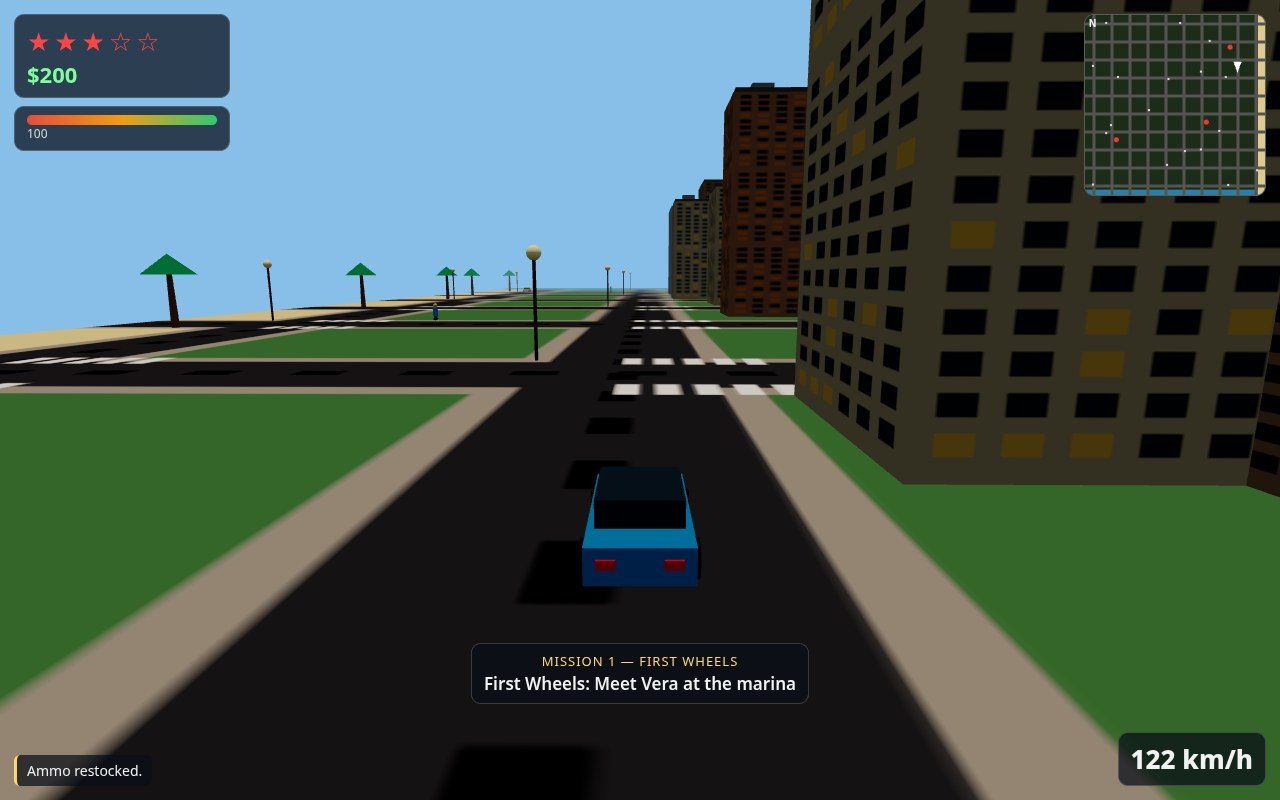
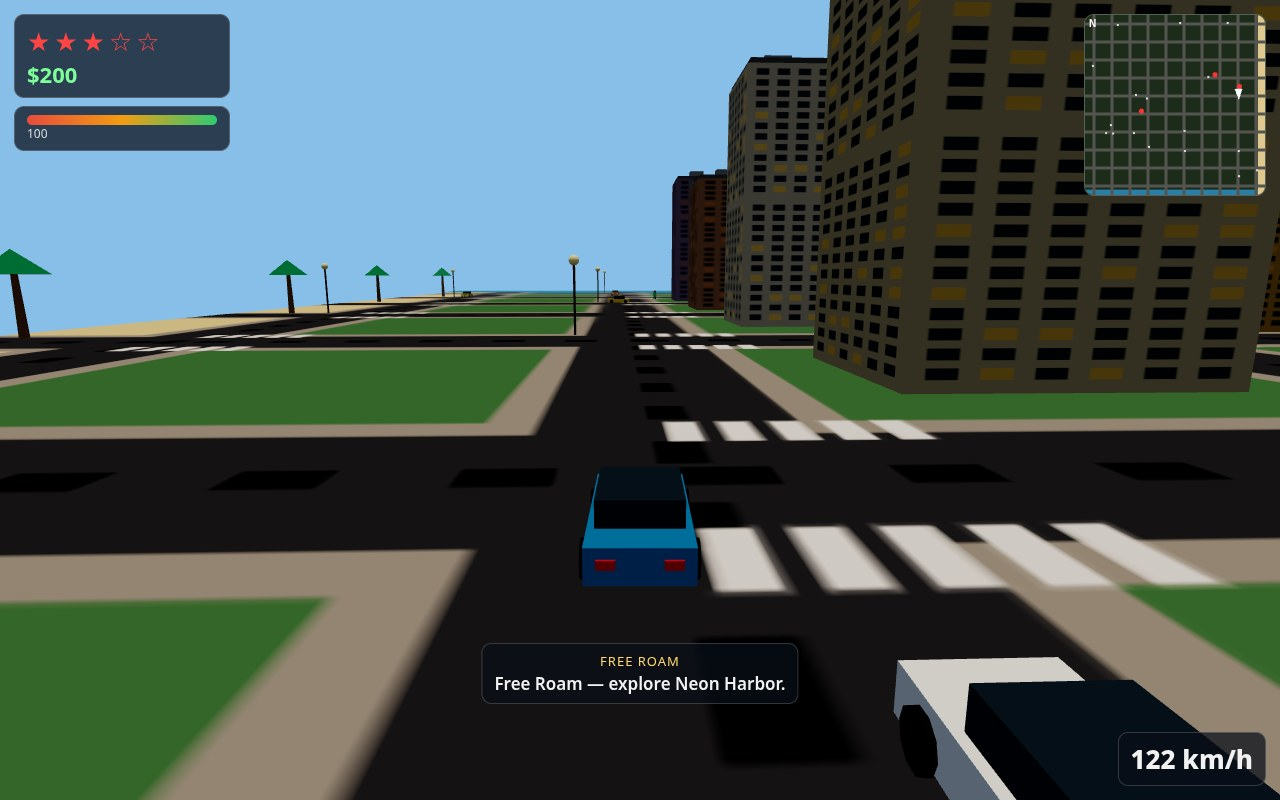
Neon Harbor revision: visible player character, autopilot, HUD, camera, balance
- Sync the player character mesh to the logical player every step: the
  character never moved and stood invisible inside the bank at the origin.
- Screenshot autopilot: cap speed for sharp turns instead of cutting the
  throttle to zero (a stopped car cannot turn, so the drive shot deadlocked
  at 0 km/h wedged against a building); quicker, straight back-out recovery.
- HUD: no more phantom mission — the chase shot showed Mission 1's
  objective while no mission was running; unstarted play now reads Free Roam.
- Camera: low chase/posed cameras are pushed out of building footprints so
  a wall of brick never fills the frame.
- Traffic: one passing car billed 25 HP per frame (50 per brush); now one
  25 HP hit per brush (0.75s cooldown).
- City facades now use the seeded RNG (was Math.random), so a seed builds
  the same city; police spawns use one persistent RNG instead of re-seeding
  every frame to the same few road points.
- Mission shot reframed so the player reads in front of the package beacon.

diff --git a/game/src/main.js b/game/src/main.js
@@ -37,6 +37,7 @@ const scene = render.scene;
 const city = buildCity(scene, 1337);
 const graph = city.graph;
 const places = city.places;
+render.colliders = city.colliders; // the follow camera must not sit inside a building
 
 const save = loadSave();
 let cash = save.cash;
@@ -44,6 +45,10 @@ let screen = 'play'; // title | play | pause | busted | wasted | done
 let time = 0;
 let saveTimer = 0;
 let titleYaw = 0;
+let lastTrafficHit = -10; // game time of the last traffic hit: one passing car
+// must not bill the player 25 HP per frame while it brushes past them.
+const policeRng = mulberry32(20240); // police spawn picks, kept across frames:
+// re-seeding every frame put every new cop on the same few road points.
 
 // --- The player -------------------------------------------------------------
 function makePlayerMesh() {
@@ -308,7 +313,7 @@ function stepWorld(dt, inp, events) {
   }
 
   // Police: as many cars as stars, chasing the player, ramming on contact.
-  syncPolice(scene, police, wanted.stars, graph, player.x, player.z, mulberry32(5));
+  syncPolice(scene, police, wanted.stars, graph, player.x, player.z, policeRng);
   let nearestCop = Infinity;
   for (const cop of police) {
     const touching = cop.update(dt, player.x, player.z, city.colliders, time);
@@ -365,9 +370,10 @@ function stepWorld(dt, inp, events) {
     const swing = moving ? Math.sin(player.walkPhase) * 0.5 : 0;
     if (legL) legL.rotation.x = swing;
     if (legR) legR.rotation.x = -swing;
-    // A car that runs the player down hurts.
+    // A car that runs the player down hurts — once per brush, not per frame.
     const hitter = nearestCar(traffic, player.x, player.z, 1.6);
-    if (hitter && !hitter.parked) {
+    if (hitter && !hitter.parked && time - lastTrafficHit > 0.75) {
+      lastTrafficHit = time;
       player.health = Math.max(0, player.health - 25);
       player.x += Math.sin(player.heading) * 2;
       player.z += Math.cos(player.heading) * 2;
@@ -381,6 +387,12 @@ function stepWorld(dt, inp, events) {
       hud.pushMessage(armed ? 'Pistol out. Click to fire.' : 'Pistol away.');
     }
   }
+
+  // The visible character follows the logical player: position and heading are
+  // updated every step (the mesh was never moved, so the player walked around
+  // as an invisible camera while the character stood inside the bank).
+  player.mesh.position.set(player.x, 0, player.z);
+  player.mesh.rotation.y = player.heading;
 
   combat.update(dt, inp, {
     x: player.x,
@@ -449,7 +461,7 @@ function hudState() {
     ammo: combat.ammo,
     armed: combat.armed,
     objective: missions.objectiveText(),
-    missionName: missions.active ? `Mission ${missions.current + 1} — ${missions.name}` : 'Free Roam',
+    missionName: missions.active && missions.started ? `Mission ${missions.current + 1} — ${missions.name}` : 'Free Roam',
     waypointDist: waypoint ? dist2D(player.x, player.z, waypoint.x, waypoint.z) : null,
     playerX: player.x,
     playerZ: player.z,

diff --git a/game/src/shots.js b/game/src/shots.js
@@ -39,13 +39,18 @@ function wrapAngle(a) {
   return a;
 }
 
-// Steer the player's car toward a point, braking for sharp turns and arrivals.
+// Steer the player's car toward a point, slowing for the turn ahead: a sharp
+// turn at full speed overshoots the corner into the building across the
+// intersection. Never cut the throttle to zero for a big steering error — a
+// stopped car cannot turn at all (turn authority is zero at speed zero), so
+// the car would sit dead in the road forever. Instead cap the speed: full
+// throttle below the target speed, coast above it.
 function driveToward(world, input, tx, tz) {
   const car = world.playerCar;
   const err = wrapAngle(Math.atan2(tx - car.x, tz - car.z) - car.heading);
   input.steer = clamp(err * 2.2, -1, 1);
-  const dist = dist2D(car.x, car.z, tx, tz);
-  input.throttle = Math.abs(err) > 0.7 || dist < 12 ? 0 : 1;
+  const targetSpeed = Math.abs(err) > 0.5 ? 12 : 34;
+  input.throttle = Math.abs(car.speed) < targetSpeed ? 1 : 0;
 }
 
 // Follow a route of road intersections, reversing out if the car gets stuck.
@@ -58,14 +63,14 @@ function followRoute(world, input, route, dt, state) {
   if (state.reverseTime > 0) {
     state.reverseTime -= dt;
     input.throttle = -1;
-    input.steer = -input.steer;
+    input.steer = 0; // back straight out of the wall, then re-aim
     return;
   }
   driveToward(world, input, route[state.index].x, route[state.index].z);
-  if (Math.abs(car.speed) < 1.2 && input.throttle > 0) {
+  if (Math.abs(car.speed) < 2 && input.throttle > 0) {
     state.stuckTime += dt;
-    if (state.stuckTime > 1.5) {
-      state.reverseTime = 0.9;
+    if (state.stuckTime > 1) {
+      state.reverseTime = 1.2;
       state.stuckTime = 0;
     }
   } else {
@@ -100,7 +105,7 @@ function hudFor(world) {
   const waypoint = world.missions.waypoint();
   return {
     objective: world.missions.objectiveText(),
-    missionName: world.missions.active ? `Mission ${world.missions.current + 1} — ${world.missions.name}` : 'Free Roam',
+    missionName: world.missions.active && world.missions.started ? `Mission ${world.missions.current + 1} — ${world.missions.name}` : 'Free Roam',
     stars: world.wanted.stars,
     waypointDist: waypoint ? dist2D(world.player.x, world.player.z, waypoint.x, waypoint.z) : null,
     waypoint,
@@ -165,7 +170,9 @@ export function stageShot(name, world, seed = 1) {
     const p = world.player;
     const fx = Math.sin(p.heading);
     const fz = Math.cos(p.heading);
-    world.render.poseCamera(p.x - fx * 7, 3.6, p.z - fz * 7, 140, 2, -20);
+    // High and far enough back that the player reads at the bottom of the
+    // frame instead of being cropped out behind the beacon.
+    world.render.poseCamera(p.x - fx * 9, 5, p.z - fz * 9, 140, 1.5, -20);
     return { screen: 'play', ...hudFor(world) };
   }
 

diff --git a/game/src/render.js b/game/src/render.js
@@ -4,6 +4,7 @@
 // around with the mouse. Shots can freeze the camera on a posed frame.
 import * as THREE from 'three';
 import { clamp, angleLerp } from './config.js';
+import { collideCircle } from './city.js';
 
 export class Render {
   constructor(canvas) {
@@ -41,6 +42,8 @@ export class Render {
     this.camPitch = 0.34;
     this.camDist = 10;
     this.frozen = false;
+    this.colliders = null; // building boxes, set by main.js: the camera must
+    // never sit inside one, or the frame is a wall of brick.
     this.resize();
     window.addEventListener('resize', () => this.resize());
   }
@@ -55,9 +58,18 @@ export class Render {
 
   // Put the camera exactly here, looking there — used by the screenshot scenes.
   poseCamera(x, y, z, lx, ly, lz) {
-    this.camera.position.set(x, y, z);
+    const fixed = this.clearOfBuildings(x, z, y);
+    this.camera.position.set(fixed.x, y, fixed.z);
     this.camera.lookAt(lx, ly, lz);
     this.frozen = true;
+  }
+
+  // A low camera inside a building footprint shows a wall of brick: push it out
+  // to the building's edge. Only below roof height — a high camera is above the
+  // roofs and needs no pushing.
+  clearOfBuildings(x, z, y) {
+    if (!this.colliders || y >= 12) return { x, z };
+    return collideCircle(this.colliders, x, z, 2);
   }
 
   unfreeze() {
@@ -87,6 +99,9 @@ export class Render {
     );
     // Never let the camera sink under the street.
     desired.y = Math.max(desired.y, 2.2);
+    const clear = this.clearOfBuildings(desired.x, desired.z, desired.y);
+    desired.x = clear.x;
+    desired.z = clear.z;
     const k = 1 - Math.exp(-10 * dt);
     this.camera.position.lerp(desired, k);
     this.camera.lookAt(target.x + fx * 4, target.y + 1.6, target.z + fz * 4);

diff --git a/game/src/city.js b/game/src/city.js
@@ -9,7 +9,7 @@ import { WORLD, COLOURS, mulberry32 } from './config.js';
 const ROAD_COORDS = [-180, -140, -100, -60, -20, 20, 60, 100, 140, 180];
 const BLOCK_COORDS = [-160, -120, -80, -40, 0, 40, 80, 120, 160];
 
-function makeFacadeTexture(base, windowsLit) {
+function makeFacadeTexture(base, windowsLit, rng) {
   const canvas = document.createElement('canvas');
   canvas.width = 128;
   canvas.height = 256;
@@ -20,7 +20,7 @@ function makeFacadeTexture(base, windowsLit) {
   const rows = 12;
   for (let r = 0; r < rows; r += 1) {
     for (let c = 0; c < cols; c += 1) {
-      const lit = Math.random() < windowsLit;
+      const lit = rng() < windowsLit;
       ctx.fillStyle = lit ? '#ffd76a' : '#2c3e50';
       ctx.fillRect(8 + c * 20, 10 + r * 20, 12, 12);
     }
@@ -125,8 +125,9 @@ export function buildCity(scene, seed = 1337) {
   group.add(ground);
 
   // Facade textures: three height classes so windows stay proportional.
+  // Seeded like the rest of the city, so the same seed builds the same city.
   const facades = [0, 1, 2].map((i) => {
-    const tex = makeFacadeTexture('#cfc8b8', 0.25);
+    const tex = makeFacadeTexture('#cfc8b8', 0.25, rng);
     tex.repeat.set(1, 1 + i);
     return tex;
   });

diff --git a/game/src/missions.js b/game/src/missions.js
@@ -155,6 +155,7 @@ export class MissionManager {
   }
 
   objectiveText() {
+    if (!this.started) return 'Free Roam — explore Neon Harbor.';
     if (!this.active) return 'Story complete — Neon Harbor is yours. Free roam.';
     const stepText = [
       ['Meet Vera at the marina', 'Get in a car', 'Drive to the hideout'],
